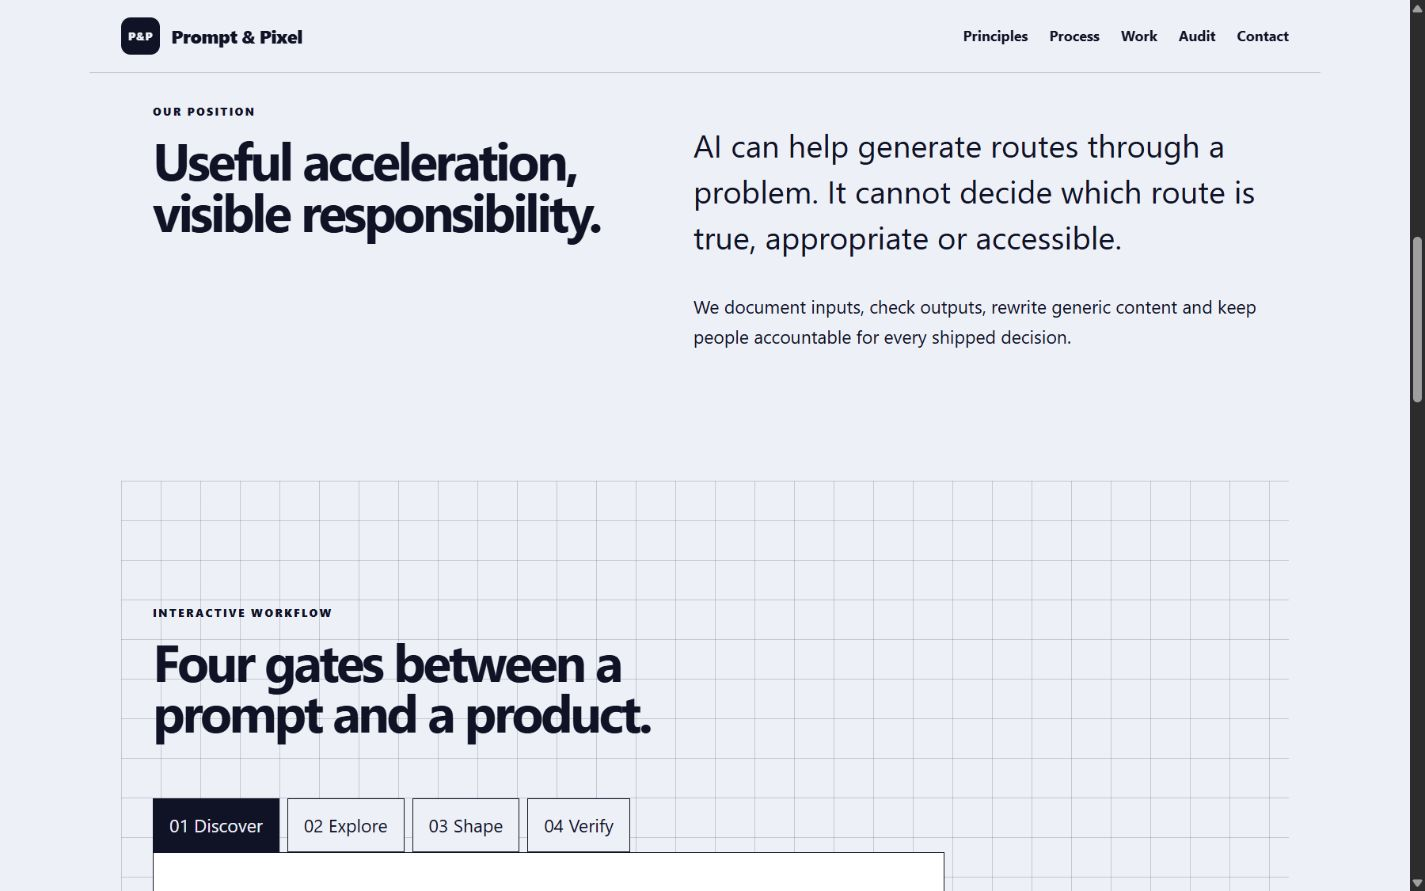
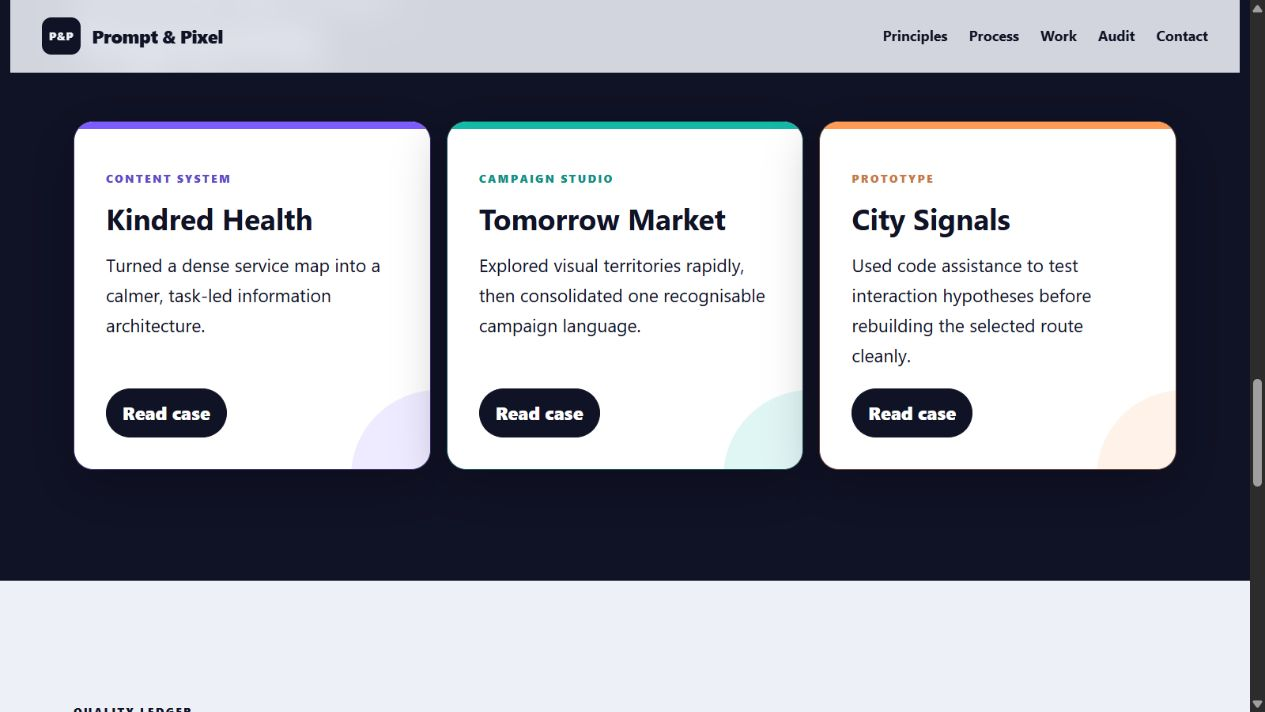
fix: restore case study contrast and hierarchy

diff --git a/css/refinements.css b/css/refinements.css
@@ -1,0 +1,106 @@
+/* High-contrast case-study system for the dark Work section. */
+#work {
+  position: relative;
+  overflow: hidden;
+}
+
+#work::before {
+  content: "";
+  position: absolute;
+  inset: 0 0 auto;
+  height: 1px;
+  background: linear-gradient(90deg, transparent, var(--accent), var(--alt), transparent);
+}
+
+#work .section-head,
+#work .card-grid {
+  position: relative;
+  z-index: 1;
+}
+
+#work .card-grid { gap: 1rem; }
+
+#work .card {
+  --case-accent: var(--accent);
+  position: relative;
+  isolation: isolate;
+  display: flex;
+  flex-direction: column;
+  min-height: 340px;
+  padding: 2rem;
+  overflow: hidden;
+  border-color: color-mix(in srgb, var(--case-accent) 35%, var(--ink));
+  background: var(--paper);
+  color: var(--ink);
+  box-shadow: 0 1rem 3rem #05071355;
+  transition: transform .25s ease, box-shadow .25s ease;
+}
+
+#work .card:nth-child(2) { --case-accent: var(--alt); }
+#work .card:nth-child(3) { --case-accent: #ff9b54; }
+
+#work .card::before {
+  content: "";
+  position: absolute;
+  z-index: -1;
+  inset: 0 0 auto;
+  height: .45rem;
+  background: var(--case-accent);
+}
+
+#work .card::after {
+  content: "";
+  position: absolute;
+  z-index: -2;
+  width: 11rem;
+  height: 11rem;
+  right: -6rem;
+  bottom: -6rem;
+  border-radius: 50%;
+  background: color-mix(in srgb, var(--case-accent) 13%, transparent);
+}
+
+#work .card:hover {
+  transform: translateY(-5px);
+  box-shadow: 0 1.5rem 3.6rem #05071380;
+}
+
+#work .tag {
+  color: color-mix(in srgb, var(--case-accent) 76%, var(--ink));
+  margin: 1rem 0 .65rem;
+}
+
+#work .card h3 {
+  font-size: clamp(1.65rem, 2.3vw, 2.4rem);
+  margin: .25rem 0 1rem;
+}
+
+#work .card p { margin-top: 0; }
+
+#work .card button {
+  align-self: flex-start;
+  min-height: 2.8rem;
+  margin-top: auto;
+  padding: .55rem 1rem;
+  border: 1px solid var(--ink);
+  border-radius: 999px;
+  background: var(--ink);
+  color: var(--paper);
+  font-weight: 800;
+  transition: background .2s ease, color .2s ease, transform .2s ease;
+}
+
+#work .card button:hover {
+  background: var(--case-accent);
+  color: var(--ink);
+  transform: translateY(-2px);
+}
+
+main section[id] { scroll-margin-top: 6rem; }
+
+@media (max-width: 600px) {
+  #work .card {
+    min-height: 300px;
+    padding: 1.5rem;
+  }
+}

diff --git a/css/variables.css b/css/variables.css
@@ -1,1 +1,2 @@
+@import url("refinements.css");
 :root{--bg:#eef0f8;--ink:#101225;--accent:#7c5cff;--alt:#13b8a6;--paper:#fff;--muted:color-mix(in srgb,var(--ink) 64%,transparent);--line:color-mix(in srgb,var(--ink) 18%,transparent);--radius:1.25rem;--shadow:0 1.4rem 4rem color-mix(in srgb,var(--ink) 12%,transparent);--max:1180px;--step--1:clamp(.82rem,.78rem + .18vw,.94rem);--step-0:clamp(1rem,.94rem + .28vw,1.15rem);--step-1:clamp(1.35rem,1.1rem + 1vw,2rem);--step-2:clamp(2rem,1.55rem + 2vw,3.3rem);--step-3:clamp(3rem,2rem + 4.5vw,6.8rem)}*{box-sizing:border-box}html{scroll-behavior:smooth;scroll-padding-top:6rem}body{margin:0;background:var(--bg);color:var(--ink);font-family:Inter,ui-sans-serif,system-ui,-apple-system,"Segoe UI",sans-serif;font-size:var(--step-0);line-height:1.65}::selection{background:var(--accent);color:var(--ink)}:focus-visible{outline:3px solid var(--alt);outline-offset:4px}@media(prefers-reduced-motion:reduce){*,*::before,*::after{scroll-behavior:auto!important;animation-duration:.01ms!important;animation-iteration-count:1!important;transition-duration:.01ms!important}}

diff --git a/docs/testing.md b/docs/testing.md
@@ -23,3 +23,7 @@ Semantic landmarks, a single page heading, labelled controls, visible focus trea
 ## Browser limitations
 
 Firefox and WebKit executables were not available in the bundled environment. Safari hardware testing is unavailable on Windows. Standards-based HTML/CSS/JavaScript and reduced-motion fallbacks are used, but those browsers are recorded as not device-tested rather than claimed as passed.
+
+## Contrast regression — August 9, 2026
+
+The case-study cards were retested after a dark-section inheritance defect was reported. Computed styles now resolve to dark text (`rgb(16, 18, 37)`) on white cards and white text on dark action buttons. The updated section has no horizontal overflow, missing images or browser console issues. Modal opening, Escape dismissal and focus restoration were also rechecked.
